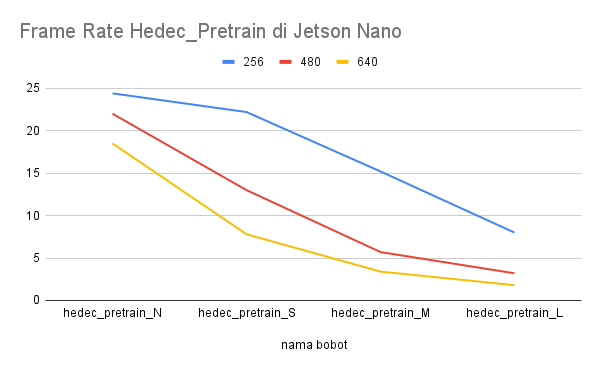
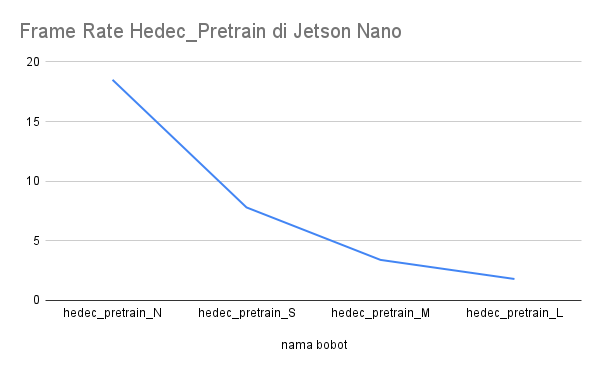
mantaps

diff --git a/bab/5-penutup.tex b/bab/5-penutup.tex
@@ -9,14 +9,20 @@
 \par Berdasarkan pengujian yang dilakukan pada penelitian ini, ditarik beberapa kesimpulan sebagai berikut:
 
 \begin{enumerate}[nolistsep]
-    \item Bobot atau \emph{weight} yang dilatih menggunakan \emph{Pretrained Weights} dari YOLOv5 dengan \emph{weights} yang dilatih hanya menggunakan dataset Deteksi Helm Keselamatan Kerja tidak memiliki perbedaan signifikan dari segi \emph{precision}, \emph{recall}, \emph{mAP}, maupun \emph{inference speed} nya untuk setiap varian (N,S,M,L) saat dilakukan pengujian menggunakan test set dari dataset Deteksi Helm Keselamatan Kerja dimana pada metriknya dimana untuk rata - rata \emph{precision} mendapatkan nilai 0,92 ,  \emph{recall} diatas 0,87 dan mAP@.5 0,92.
-    \item Pengujian dengan variasi jarak dari 1,3 meter hingga 9 meter memiliki nilai rata-rata untuk \emph{precision} 0,9, \emph{recall} 0,97 dan mAP@.5 0,98.
-    \item Perbedaan performa yang signifikan dari \emph{weight} yang dilatih menggunakan \emph{Pretrained Weights} dari YOLOv5 dengan \emph{weights} yang dilatih hanya menggunakan dataset Deteksi Helm Keselamatan Kerja baru terlihat pada pengujian pada keadaan pencahayaan rendah dimana \emph{precision} pada \emph{weight} yang dilatih menggunakan \emph{Pretrained Weights} dari YOLOv5 lebih baik dari pada yang murni menggunakan dataset Deteksi Helm Keselamatan Kerja. Pada nilai \emph{recall} secara umum tidak ada berbedaan signifikan pada tiap varian tetapi khusus untuk varian "hedec\textunderscore pretrain\textunderscore N" memiliki nilai \emph{recall} yang sangat buruk yaitu 0.373 karena gagal untuk mendeteksi kelas “no\textunderscore helmet”.
-    \item Dari varian \emph{weight} yang dilatih menggunakan model YOLOv5 yaitu \emph{Nano}(N), \emph{Small}(S), \emph{Medium}(L), \emph{Large}(L), nilai metrik untuk \emph{precision},\emph{recall}, dan mAP mengalami peningkatan sedangkan \emph{inference speed} menjadi lebih lama jika diurutkan dari \emph{Nano} hingga \emph{Large}. Kecuali pada pengujain di pencahayaan rendah dimana varian \emph{Large} mengalami penurunan walaupun \emph{inference speed} nya tetap lebih lama.
-    \item Pada pengujian performa Deteksi Helm Keselamatan Kerja menggunakan YOLOv5 di Jetson Nano, semua varian kecuali \emph{Large} berhasil dijalankan dengan \emph{Frame Rate} 15 FPS hingga 24 FPS. Untuk setiap varian \emph{Large} selalu gagal untuk dijalankan.
-    \item Pada keadaan pencahayaan cukup dan keperluan deteksi paling cepat, bobot "hedec\textunderscore pretrain\textunderscore N" ,yang merupakan bobot yang dilatih menggunakan \emph{pretrained weight} varian \emph{Nano} dari YOLOv5, sudah sangat mencukupi karena memiliki nilai \emph{precision}, \emph{recall}, dan \emph{mAP} yang tidak jauh berbeda dengan varian lain diatasnya tetapi memiliki \emph{inference speed} yang jauh lebih cepat.
-    \item Pada keadaan pencahayaan rendah, bobot "hedec\textunderscore pretrain\textunderscore M" ,yang merupakan bobot yang dilatih menggunakan \emph{pretrained weight} varian \emph{Nano} dari YOLOv5, memiliki nilai \emph{precision}, \emph{recall}, dan \emph{mAP} paling optimal dibanding varian lainnya.
-    \item Sistem \emph{alarm trigger} berhasil berjalan ketika terdapat kelas \emph{no\textunderscore helmet} yang terdeteksi pada proses \emph{inference}.
+    % \item Bobot atau \emph{weight} yang dilatih menggunakan \emph{Pretrained Weights} dari YOLOv5 dengan \emph{weights} yang dilatih hanya menggunakan dataset Deteksi Helm Keselamatan Kerja tidak memiliki perbedaan signifikan dari segi \emph{precision}, \emph{recall}, \emph{mAP}, maupun \emph{inference speed} nya untuk setiap varian (N,S,M,L) saat dilakukan pengujian menggunakan test set dari dataset Deteksi Helm Keselamatan Kerja dimana pada metriknya dimana untuk rata - rata \emph{precision} mendapatkan nilai 0,92 ,  \emph{recall}  0,87 dan mAP@.5 0,92.
+    \item YOLOv5 dapat digunakan untuk deteksi helm keselamatan kerja dibuktikan pada pengujian masing - masing model dengan \emph{Pretrained Weights} dari YOLOv5 ataupun tanpa \emph{Pretrained Weights} untuk setiap varian (N,S,M,L) dimana mendapatkan rata - rata \emph{precision} 0,92, \emph{recall}  0,87 dan mAP@.5 0,92 yang dimana juga tidak ada perbedaan signfikan diantara varian.
+    % \item Pengujian dengan variasi jarak dari 1,3 meter hingga 9 meter memiliki nilai rata-rata untuk \emph{precision} 0,9, \emph{recall} 0,97 dan mAP@.5 0,98.
+
+    \item Pada pengujian kecepatan \emph{inference}, jika diurutkan dari paling cepat hingga yang paling lambat yaitu \emph{Nano}(N), \emph{Small}(S), \emph{Medium}(M), lalu \emph{Large}(L) dimana juga berpengaruh pada \emph{frame-rate} yang dibuktikan pada pengujian di Jetson Nano dimana varian N mendapatkan 18,4 FPShingga varian L mendapatkan 1,8 FPS
+
+    \item Sistem deteksi helm keselamatan dapat dilakukan pada pengujian jarak 1 meter hingga 10 meter dibuktikan melalui pengujian model mendapatkan nilai rata-rata pada semua jarak untuk \emph{precision} 0,9, \emph{recall} 0,97 dan mAP@.5 0,98  dan juga dari pengujian sistem alarm mendapatkan akurasi paling rendah 0.92.
+    % \item Perbedaan performa yang signifikan dari \emph{weight} yang dilatih menggunakan \emph{Pretrained Weights} dari YOLOv5 dengan \emph{weights} yang dilatih hanya menggunakan dataset Deteksi Helm Keselamatan Kerja baru terlihat pada pengujian pada keadaan pencahayaan rendah dimana \emph{precision} pada \emph{weight} yang dilatih menggunakan \emph{Pretrained Weights} dari YOLOv5 lebih baik dari pada yang murni menggunakan dataset Deteksi Helm Keselamatan Kerja. Pada nilai \emph{recall} secara umum tidak ada berbedaan signifikan pada tiap varian tetapi khusus untuk varian "hedec\textunderscore pretrain\textunderscore N" memiliki nilai \emph{recall} yang sangat buruk yaitu 0.373 karena gagal untuk mendeteksi kelas “no\textunderscore helmet”.
+    \item Sistem deteksi helm keselamatan kerja dapat dilakukan pada pencahayaan rendah dibuktikan melalui pengujian model dengan nilai rata-rata dari semua varian model untuk \emph{precision} 0,76, \emph{recall} 0,74 dan mAP@.5 0,78 dan juga dari pengujian sistem alarm dengan varian \emph{Small} mendapatkan nilai 0,82 dimana menunjukkan terjadi penurunan performa pada pencahayaan rendah.
+    % \item Dari varian \emph{weight} yang dilatih menggunakan model YOLOv5 yaitu \emph{Nano}(N), \emph{Small}(S), \emph{Medium}(L), \emph{Large}(L), nilai metrik untuk \emph{precision},\emph{recall}, dan mAP mengalami peningkatan sedangkan \emph{inference speed} menjadi lebih lama jika diurutkan dari \emph{Nano} hingga \emph{Large}. Kecuali pada pengujain di pencahayaan rendah dimana varian \emph{Large} mengalami penurunan walaupun \emph{inference speed} nya tetap lebih lama.
+    \item Sistem deteksi helm keselamatan kerja dapat dijalankan secara \emph{real-time} ditunjukkan pada pengujian sistem di Jetson-Nano dengan akurasi 0.92.
+    % \item Pada pengujian performa Deteksi Helm Keselamatan Kerja menggunakan YOLOv5 di Jetson Nano, semua varian kecuali \emph{Large} berhasil dijalankan dengan \emph{Frame Rate} 15 FPS hingga 24 FPS. Untuk setiap varian \emph{Large} selalu gagal untuk dijalankan.
+
+    \item Menimbang hasil pengujian dari semua model yang tidak terlalu signifikan dengan kecepatan \emph{inference}-nya, varian model YOLOv5s dengan \emph{weight} dengan \emph{Pretrained Weight} varian \emph{Small} dianggap sebagai pilihan paling optimal pada keperluan deteksi helm keselamatan kerja secara \emph{real-time} yang lalu juga digunakan untuk semua pengujian sistem.
     
 \end{enumerate}
 
@@ -27,7 +33,8 @@
 
 \begin{enumerate}[nolistsep]
 
-  \item Menambahkan dataset untuk keperluan train, terutama pada keadaan pencahayaan rendah dan untuk kelas \emph{no\textunderscore helmet} yang memilki hasil pengujian rendah.
+  \item Menambahkan dataset untuk keperluan train, terutama pada keadaan pencahayaan rendah dan untuk kelas \emph{no\textunderscore helmet}.
+  
 
   \item Membuat sistem pemicu alarm yang lebih tolerir jika terdeteksi ada yang tidak menggunakan helm keselamatan kerja sepersekian detik.
   
@@ -35,7 +42,7 @@
 
   \item Membuat tampilan atau \emph{user interface} yang lebih mudah dipahami.
 
-  \item Menambahkan \emph{head gear} lainnya yang kemungkinan akan digunakan oleh pekerja konstruksi yang tidak termasuk helm keselamatan kerja seperti topi dan shemag atau balaclava.
-  \item Melakukan pengujian deteksi untuk jarak lebih dari 9 meter dan resolusi yang lebih tinggi dari 640p.
+  \item Menambahkan \emph{head gear} lainnya pada dataset yang kemungkinan akan digunakan oleh pekerja konstruksi yang tidak termasuk helm keselamatan kerja seperti topi dan shemag atau balaclava.
+  \item Melakukan pengujian pada berbagai varian webcam atau kamera CCTV.
 
 \end{enumerate}

diff --git a/bab/4-pengujian-analisis.tex b/bab/4-pengujian-analisis.tex
@@ -878,7 +878,7 @@ Hasil \emph{train} tanpa menggunakan \emph{pretrain weight} ini selanjutkan akan
   
   \begin{figure} [h!]
     \centering
-    \includegraphics[width=0.8\textwidth]{gambar/train_v2_val/low_ligjt/customMedium/val_batch0_pred.jpg}
+    \includegraphics[scale=0.2]{gambar/train_v2_val/low_ligjt/customMedium/val_batch0_pred.jpg}
     \caption{Hasil Prediksi Pada Keadaan dengan \emph{Weight Hedec Medium}}
     % \label{fig:labelbaru}  
   \end{figure}
@@ -907,7 +907,7 @@ Hasil \emph{train} tanpa menggunakan \emph{pretrain weight} ini selanjutkan akan
   
   \begin{figure} [h!]
     \centering
-    \includegraphics[width=0.8\textwidth]{gambar/train_v2_val/low_ligjt/customLarge/val_batch0_pred.jpg}
+    \includegraphics[scale=0.2]{gambar/train_v2_val/low_ligjt/customLarge/val_batch0_pred.jpg}
     % \includegraphics[scale=0.1]{gambar/train_v2_val/low_ligjt/customLarge/val_batch0_labels.jpg}
     \caption{Hasil Prediksi Pada Keadaan dengan \emph{Weight Hedec Large}}
     % \label{fig:labelbaru}  
@@ -959,7 +959,7 @@ yaitu nilai \emph{Frame Per Second}(FPS).
 
  
 \par Pengujian dilakukan menggunakan Webcam Nemesis NYK A-90 Everest yang dipasang dengan Jetson Nano melalui kabel USB. 
-Pengujian dilakukan pada resolusi 256, 480, dan 640. Hasil pengukuran FPS pada pengujian YOLOv5 Helmet Detection dipaparkan pada Tabel~\ref{tb:jetsonanoperformancetest}.
+Pengujian dilakukan pada resolusi 640. Hasil pengukuran FPS pada pengujian YOLOv5 Helmet Detection dipaparkan pada Tabel~\ref{tb:jetsonanoperformancetest}.
 
 
 
@@ -967,18 +967,16 @@ Pengujian dilakukan pada resolusi 256, 480, dan 640. Hasil pengukuran FPS pada p
   \caption{Hasil Test Peforma Pad Jetson Nano}
   \label{tb:jetsonanoperformancetest}\\
   \hline
-  \multirow{2}{*}{\textbf{Nama Bobot}} & \multicolumn{3}{l|}{\textbf{Resolusi}}      \\ 
-  \cline{2-4}
-                                       & \textbf{256} & \textbf{480} & \textbf{640}  \\ 
+  \textbf{Nama Bobot} & \textbf{FPS}      \\ 
   \hline
-  hedec\_pretrain\_N                   & 24.4         & 22           & 18.5          \\
-  hedec\_pretrain\_S                   & 22.2         & 13           & 7.8           \\
-  hedec\_pretrain\_M                   & 15.2         & 5.7          & 3.4           \\
-  hedec\_pretrain\_L                   & 8            & 3.2          & 1.8           \\
-  hedec\_pure\_N                       & 24.9         & 21.5         & 18.4          \\
-  hedec\_pure\_S                       & 23           & 12.3         & 7.8           \\
-  hedec\_pure\_M                       & 15           & 5.4          & 3.3           \\
-  hedec\_pure\_L                       & 8.3          & 3            & 1.8           \\
+  hedec\_pretrain\_N                             & 18.5          \\
+  hedec\_pretrain\_S                             & 7.8           \\
+  hedec\_pretrain\_M                           & 3.4           \\
+  hedec\_pretrain\_L                            & 1.8           \\
+  hedec\_pure\_N                              & 18.4          \\
+  hedec\_pure\_S                              & 7.8           \\
+  hedec\_pure\_M                              & 3.3           \\
+  hedec\_pure\_L                                 & 1.8           \\
   \hline
 \end{longtable}
 

diff --git a/bab/3-desain-implementasi.tex b/bab/3-desain-implementasi.tex
@@ -207,6 +207,7 @@ Pada dataset yang sudah didapatkan sudah memiliki pelabelan atau anotasi nya mas
 
 \par Dataset - dataset yang sudah di pre-process sebelumnya di roboflow dan sudah memiliki anotasi yang susai lalu digunakan untuk training menggunakan YOLOv5. Training ini merupakan proses pelatihan model dengan input gambar - gambar dari dataset yang sudah diberi anotasi dimana gambar dan anotasinya tersebut diolah hingga menghasilkan suatu karakteristik atau pola khusu dari kelas/label yang ditentukan sebelumnya lewat anotasi sehingga selanjutnya dapat digunakan komputer untuk menebak gambar yang nantinya dideteksi. Khusus untuk YOLOv5 yang menggunakan PyTorch sebagai framework machine learningnya, hasil training nya beruba bobot atau weight  akan diexport dalam bentuk .pt (format pytorch). 
 
+\newpage
 \begin{longtable}{|c|c|c|}
   \caption{Konfigurasi Training menggunakan YOLOv5}
   \label{tb:konfigurasitrainingyolov5s}\\
@@ -251,7 +252,7 @@ Pada dataset yang sudah didapatkan sudah memiliki pelabelan atau anotasi nya mas
 
 \begin{figure}[ht]
   \centering
-  \includegraphics[scale=0.55]{gambar/flowchart_sistemhedec.png}
+  \includegraphics[height=0.9\textheight]{gambar/flowchart_sistemhedec.png}
   \caption{Flowchart Sistem Deteksi Helm Keselamatan Kerja}
   \label{fig:flchartdeteksi}  
 \end{figure}
